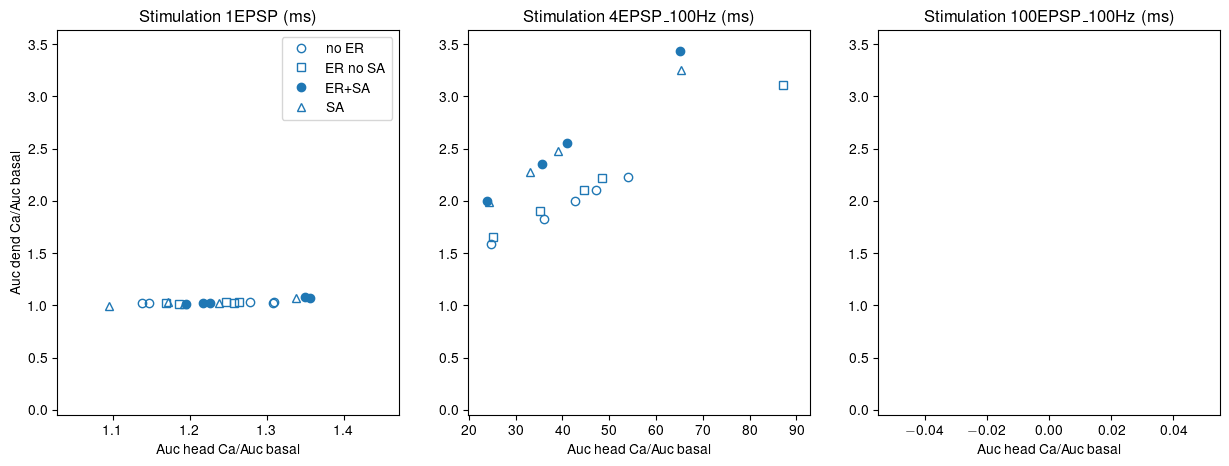
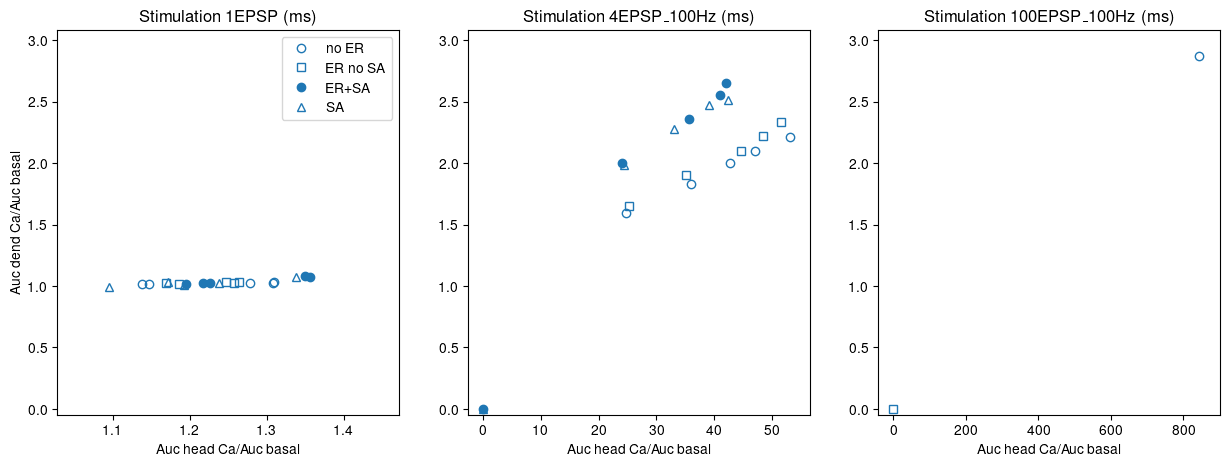
New figs

diff --git a/scripts/utility_functions.py b/scripts/utility_functions.py
@@ -602,12 +602,12 @@ def make_distance_figs(directories, stim_dict, output, types, markers,
                        fillstyles, length=42, spine_idx=21, t_init=3000,
                        xlabel=r"Auc head/Auc basal",
                        ylabel=r"Spatial spread ($\unit{\micro\metre}$))",
-                       max_ca=False, colors={}):
+                       max_ca=True, colors={}):
     if not colors:
         colors = {}
         for fname in directories:
             colors[fname] = "tab:blue"
-    if max_ca is True:
+    if max_ca:
         xlabel = r"$\mathrm{max\left(Ca_{head}^{2+}\right)}\, (\unit{\micro\Molar})$"
     fig1, ax1 = plt.subplots(1, len(stim_dict.keys()),
                              figsize=(len(stim_dict.keys())*5, 5))
@@ -683,8 +683,8 @@ def make_distance_figs(directories, stim_dict, output, types, markers,
 def area_over_250_mean(directories, stim_dict, output, types, markers,
                          fillstyles, length=42, spine_idx=21, t_init=3000,
                          xlabel=r"Auc head/Auc basal",
-                         ylabel=r"Auc dendrite/Auc basal)", max_ca=False):
-    if max_ca is True:
+                         ylabel=r"Auc dendrite/Auc basal", max_ca=False):
+    if max_ca:
         xlabel = r"$\mathrm{max\left(Ca_{head}^{2+}\right)}\, (\unit{\micro\Molar})$"
     fig1, ax1 = plt.subplots(1, len(stim_dict.keys()),
                              figsize=(len(stim_dict.keys())*5, 5))
